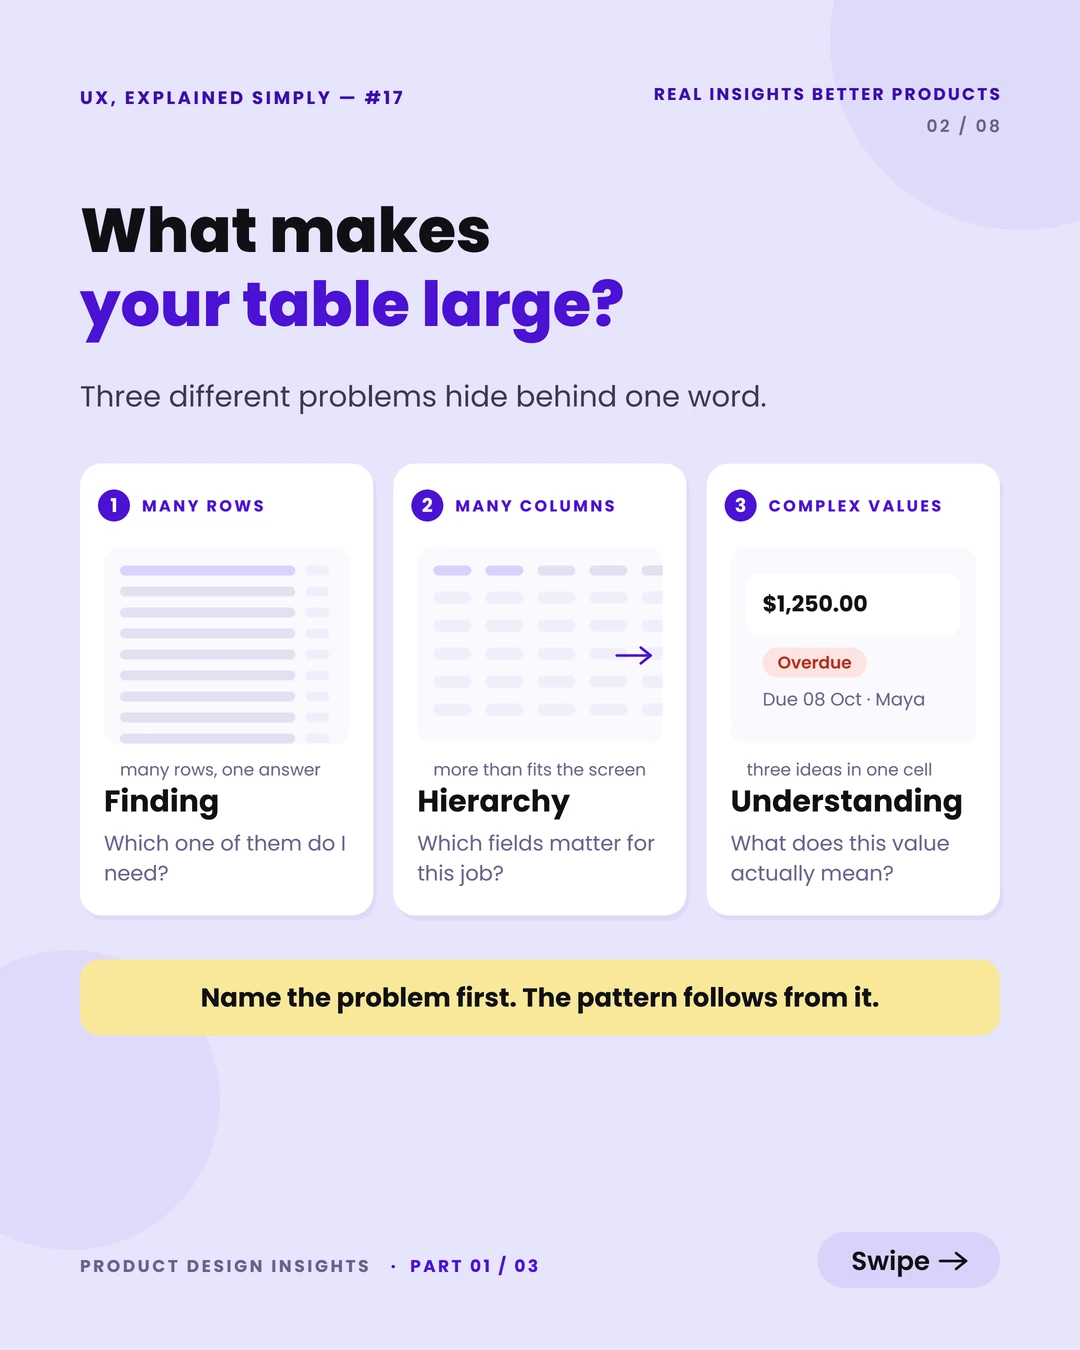
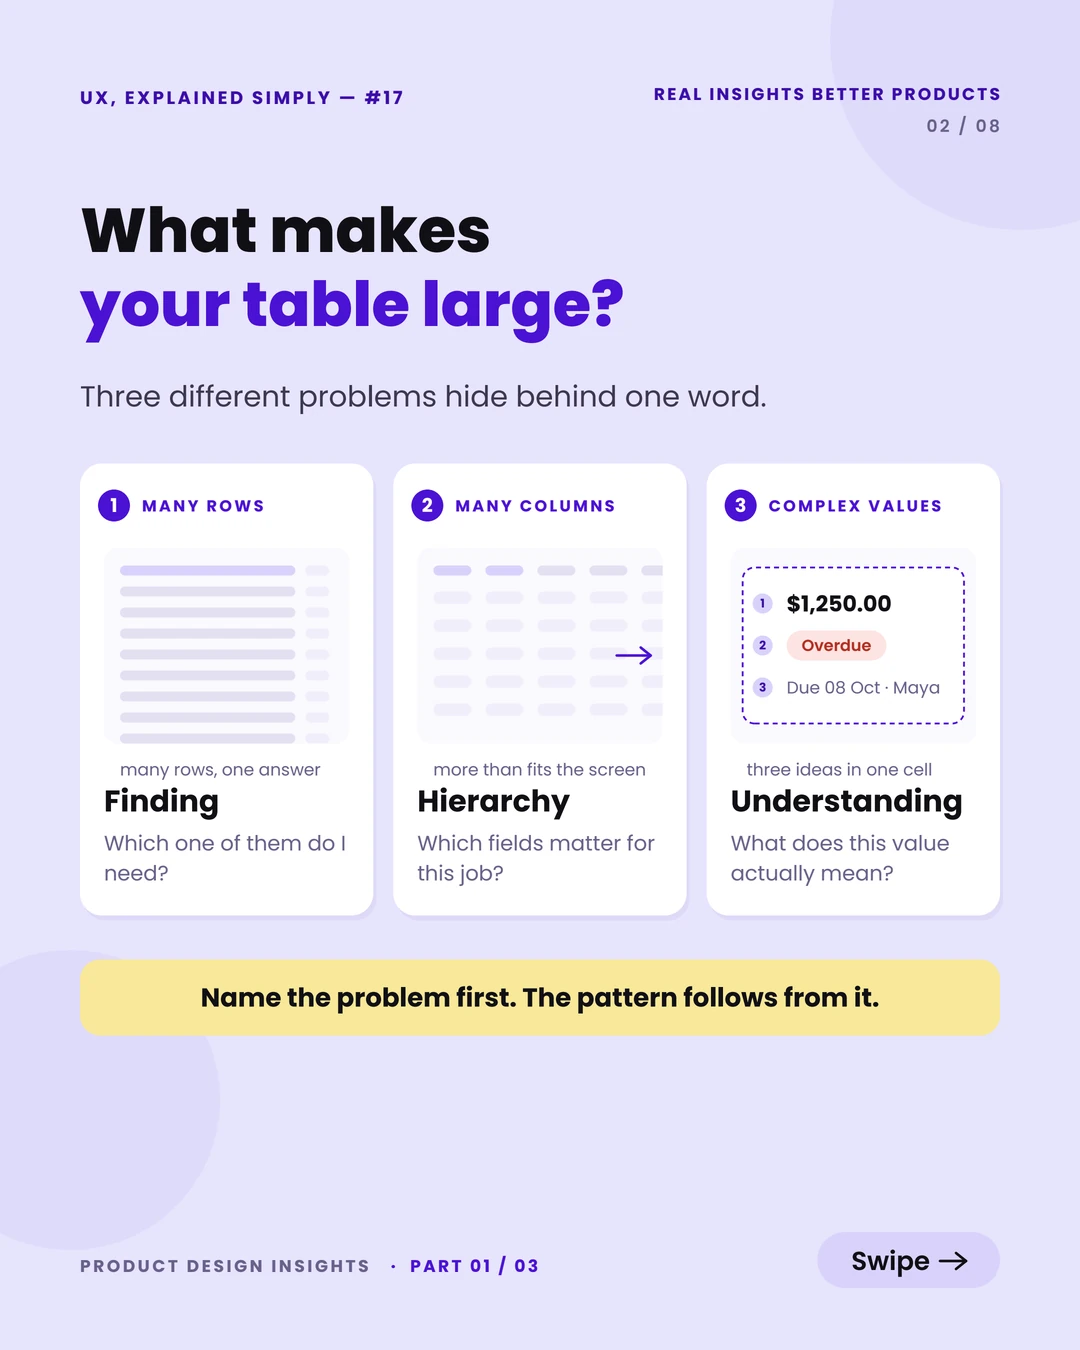
Insights #17: fix spacing on slides 2, 4 and 5 (#28)
Slide 2: rebuild the "complex values" example as one bordered cell with
three numbered parts. Slides 4 and 5: open a proper gutter between the
right-aligned amounts and the status chips. Cache-bust to v=3.

Claude-Session: https://claude.ai/code/session_01CKfTMgapYxwNJYe8Mg29vh

Changed region(s): [[0.6722, 0.4356, 0.8556, 0.5289]]

diff --git a/docs/index.html b/docs/index.html
@@ -107,7 +107,7 @@
 <section class="section ux">
 <div class="section-head"><div><p class="eyebrow">03 / UX, EXPLAINED SIMPLY</p><h2>Professional insights, curated.</h2><p>Short practical notes and carousel posts about accessibility, product decisions, analytics, and research.</p></div><a class="text-link" href="insights.html">View all insights ↗</a></div>
 <div class="insight-grid">
-<article class="ux-card ux-card-with-image insight-carousel-card"><button class="carousel-preview" type="button" data-insight-carousel data-carousel-title="Too much data. Where do I look?" data-carousel-link="https://www.linkedin.com/feed/update/urn:li:ugcPost:7517991751970791425/" data-carousel-slides="images/insights/UX17-4x5-1.webp?v=2,images/insights/UX17-4x5-2.webp?v=2,images/insights/UX17-4x5-3.webp?v=2,images/insights/UX17-4x5-4.webp?v=2,images/insights/UX17-4x5-5.webp?v=2,images/insights/UX17-4x5-6.webp?v=2,images/insights/UX17-4x5-7.webp?v=2,images/insights/UX17-4x5-8.webp?v=2" aria-label="Open Too much data. Where do I look? carousel"><img class="article-cover carousel-cover" src="images/insights/UX17-4x5-1.webp?v=2" width="1080" height="1350" alt="First slide of Too much data. Where do I look? carousel" decoding="async" loading="lazy"><span>Open carousel ↗</span></button><div class="card-meta"><span>Data Tables</span><span>Carousel</span></div><h3>Too much data. Where do I look?</h3><p>UX, Explained Simply #17 — Part 1 of 3 on desktop tables: which four fields earn the default view, sticky headers and an identifying column, what question each control actually answers, pagination versus virtualization, and six accessibility checks a static mockup cannot prove.</p></article>
+<article class="ux-card ux-card-with-image insight-carousel-card"><button class="carousel-preview" type="button" data-insight-carousel data-carousel-title="Too much data. Where do I look?" data-carousel-link="https://www.linkedin.com/feed/update/urn:li:ugcPost:7517991751970791425/" data-carousel-slides="images/insights/UX17-4x5-1.webp?v=3,images/insights/UX17-4x5-2.webp?v=3,images/insights/UX17-4x5-3.webp?v=3,images/insights/UX17-4x5-4.webp?v=3,images/insights/UX17-4x5-5.webp?v=3,images/insights/UX17-4x5-6.webp?v=3,images/insights/UX17-4x5-7.webp?v=3,images/insights/UX17-4x5-8.webp?v=3" aria-label="Open Too much data. Where do I look? carousel"><img class="article-cover carousel-cover" src="images/insights/UX17-4x5-1.webp?v=3" width="1080" height="1350" alt="First slide of Too much data. Where do I look? carousel" decoding="async" loading="lazy"><span>Open carousel ↗</span></button><div class="card-meta"><span>Data Tables</span><span>Carousel</span></div><h3>Too much data. Where do I look?</h3><p>UX, Explained Simply #17 — Part 1 of 3 on desktop tables: which four fields earn the default view, sticky headers and an identifying column, what question each control actually answers, pagination versus virtualization, and six accessibility checks a static mockup cannot prove.</p></article>
 <article class="ux-card ux-card-with-image insight-carousel-card"><button class="carousel-preview" type="button" data-insight-carousel data-carousel-title="Animation and the pause button" data-carousel-link="https://www.linkedin.com/in/olesya-levytska-321363193/" data-carousel-slides="images/insights/animation-pause-1-sharp.webp,images/insights/animation-pause-2.webp,images/insights/animation-pause-3.webp,images/insights/animation-pause-4.webp,images/insights/animation-pause-5.webp,images/insights/animation-pause-6.webp,images/insights/animation-pause-7.webp,images/insights/animation-pause-8.webp" aria-label="Open Animation and the pause button carousel"><img class="article-cover carousel-cover" src="images/insights/animation-pause-1-sharp.webp" width="1122" height="1402" alt="First slide of Animation and the pause button carousel" decoding="async" loading="lazy"><span>Open carousel ↗</span></button><div class="card-meta"><span>Accessibility</span><span>Carousel</span></div><h3>Wait… my animation needs a PAUSE button? 👀</h3><p>UX, Explained Simply #16 — the five-second rule in SC 2.2.2, what must pass versus what is guidance, where WCAG is actually the law, and ways to handle an infinite marquee — including a scroll-linked alternative that moves only while you scroll and stops when you stop.</p></article>
 <article class="ux-card ux-card-with-image insight-carousel-card"><button class="carousel-preview" type="button" data-insight-carousel data-carousel-title="Test UX assumptions" data-carousel-link="https://www.linkedin.com/in/olesya-levytska-321363193/" data-carousel-slides="images/insights/ux-assumptions-14-1.webp,images/insights/ux-assumptions-14-2.webp,images/insights/ux-assumptions-14-3.webp,images/insights/ux-assumptions-14-4.webp,images/insights/ux-assumptions-14-5.webp,images/insights/ux-assumptions-14-6.webp" aria-label="Open Test UX assumptions carousel"><img class="article-cover carousel-cover" src="images/insights/ux-assumptions-14-1.webp" width="1080" height="1350" alt="First slide of Test UX assumptions carousel" decoding="async" loading="lazy"><span>Open carousel ↗</span></button><div class="card-meta"><span>UX Research</span><span>Carousel</span></div><h3>“I think users will click here.” Cool. Prove it. 👀</h3><p>UX, Explained Simply #14 — test assumptions at every stage: one screen, clickable prototype, AI-built prototype, and live product analytics.</p></article>
 </div>
